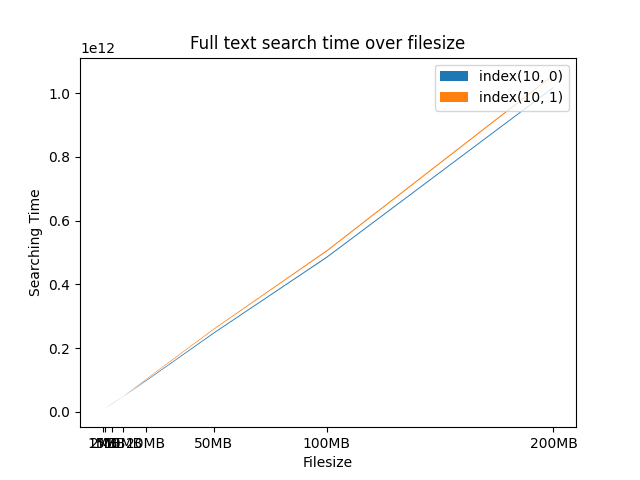
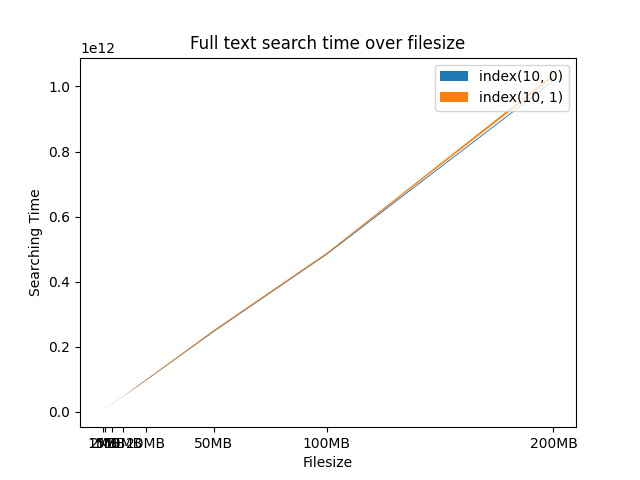
4% better boyer more plots

diff --git a/rustsearch/Plotting/SearchTimes.py b/rustsearch/Plotting/SearchTimes.py
@@ -274,15 +274,15 @@ def plot_fullsearch(data,indexes):
 
 booleanIndexes = [(7,0),(8,0),(8,1),(8,2),(8,3),(8,4)]
 
-plot_indexing(data,[(7,0),(8,0),(9,0),(9,1)])
-plot_indexing(data,[(7,0),(8,0),(9,0),(9,1),(10,0),(11,0)])
-plot_depth(data,booleanIndexes)
-plot_filesize(data,booleanIndexes)
-plot_find_word(data,[(8,0),(9,0),(9,1)])
-plot_depth_filesize(data,booleanIndexes)
-plot_prefixsearch(data,[(9,0),(9,1)])
-plot_fullsearch(data,[(11,0),(11,1)])         
-plot_fullsearch(data,[(10,0),(10,1)])         
+#plot_indexing(data,[(7,0),(8,0),(9,0),(9,1)])
+#plot_indexing(data,[(7,0),(8,0),(9,0),(9,1),(10,0),(11,0)])
+#plot_depth(data,booleanIndexes)
+#plot_filesize(data,booleanIndexes)
+#plot_find_word(data,[(8,0),(9,0),(9,1)])
+#plot_depth_filesize(data,booleanIndexes)
+#plot_prefixsearch(data,[(9,0),(9,1)])
+#plot_fullsearch(data,[(11,0),(11,1)])         
+#plot_fullsearch(data,[(10,0),(10,1)])         
 
 
 

diff --git a/rustsearch/benches/my_benchmark.rs b/rustsearch/benches/my_benchmark.rs
@@ -353,12 +353,8 @@ pub fn kmp_vs_boyer_moore(c: &mut Criterion) {
 //criterion_group!(benches,indexing_7,indexing_8_0,indexing_9_1,indexing_9_0,searching_index_7_0,searching_index_8_0,searching_index_8_1,searching_index_8_2,searching_index_8_3,searching_index_8_4,find_word_9_0,find_word_9_1,prefix_search_index_9_0,prefix_search_index_9_1);
 criterion_group!(
     name = benches;
-    config = Criterion::default().sample_size(50);
-    targets = kmp_vs_boyer_moore
-    // targets = indexing_10_0,
-    // indexing_10_1,
-    // indexing_11_0,
-    // indexing_11_1
+    config = Criterion::default().sample_size(10);
+    targets = full_text_search_10_1
 );
 
 criterion_main!(benches);

diff --git a/rustsearch/src/index/index10_1.rs b/rustsearch/src/index/index10_1.rs
@@ -106,7 +106,7 @@ pub fn boyer_moore(
                             break;
                         }
                     }
-                    ((i as i32) - (temp + 1)) as usize
+                    ((i as i32) - (temp)) as usize
                 }
                 None => i + 1,
             };
